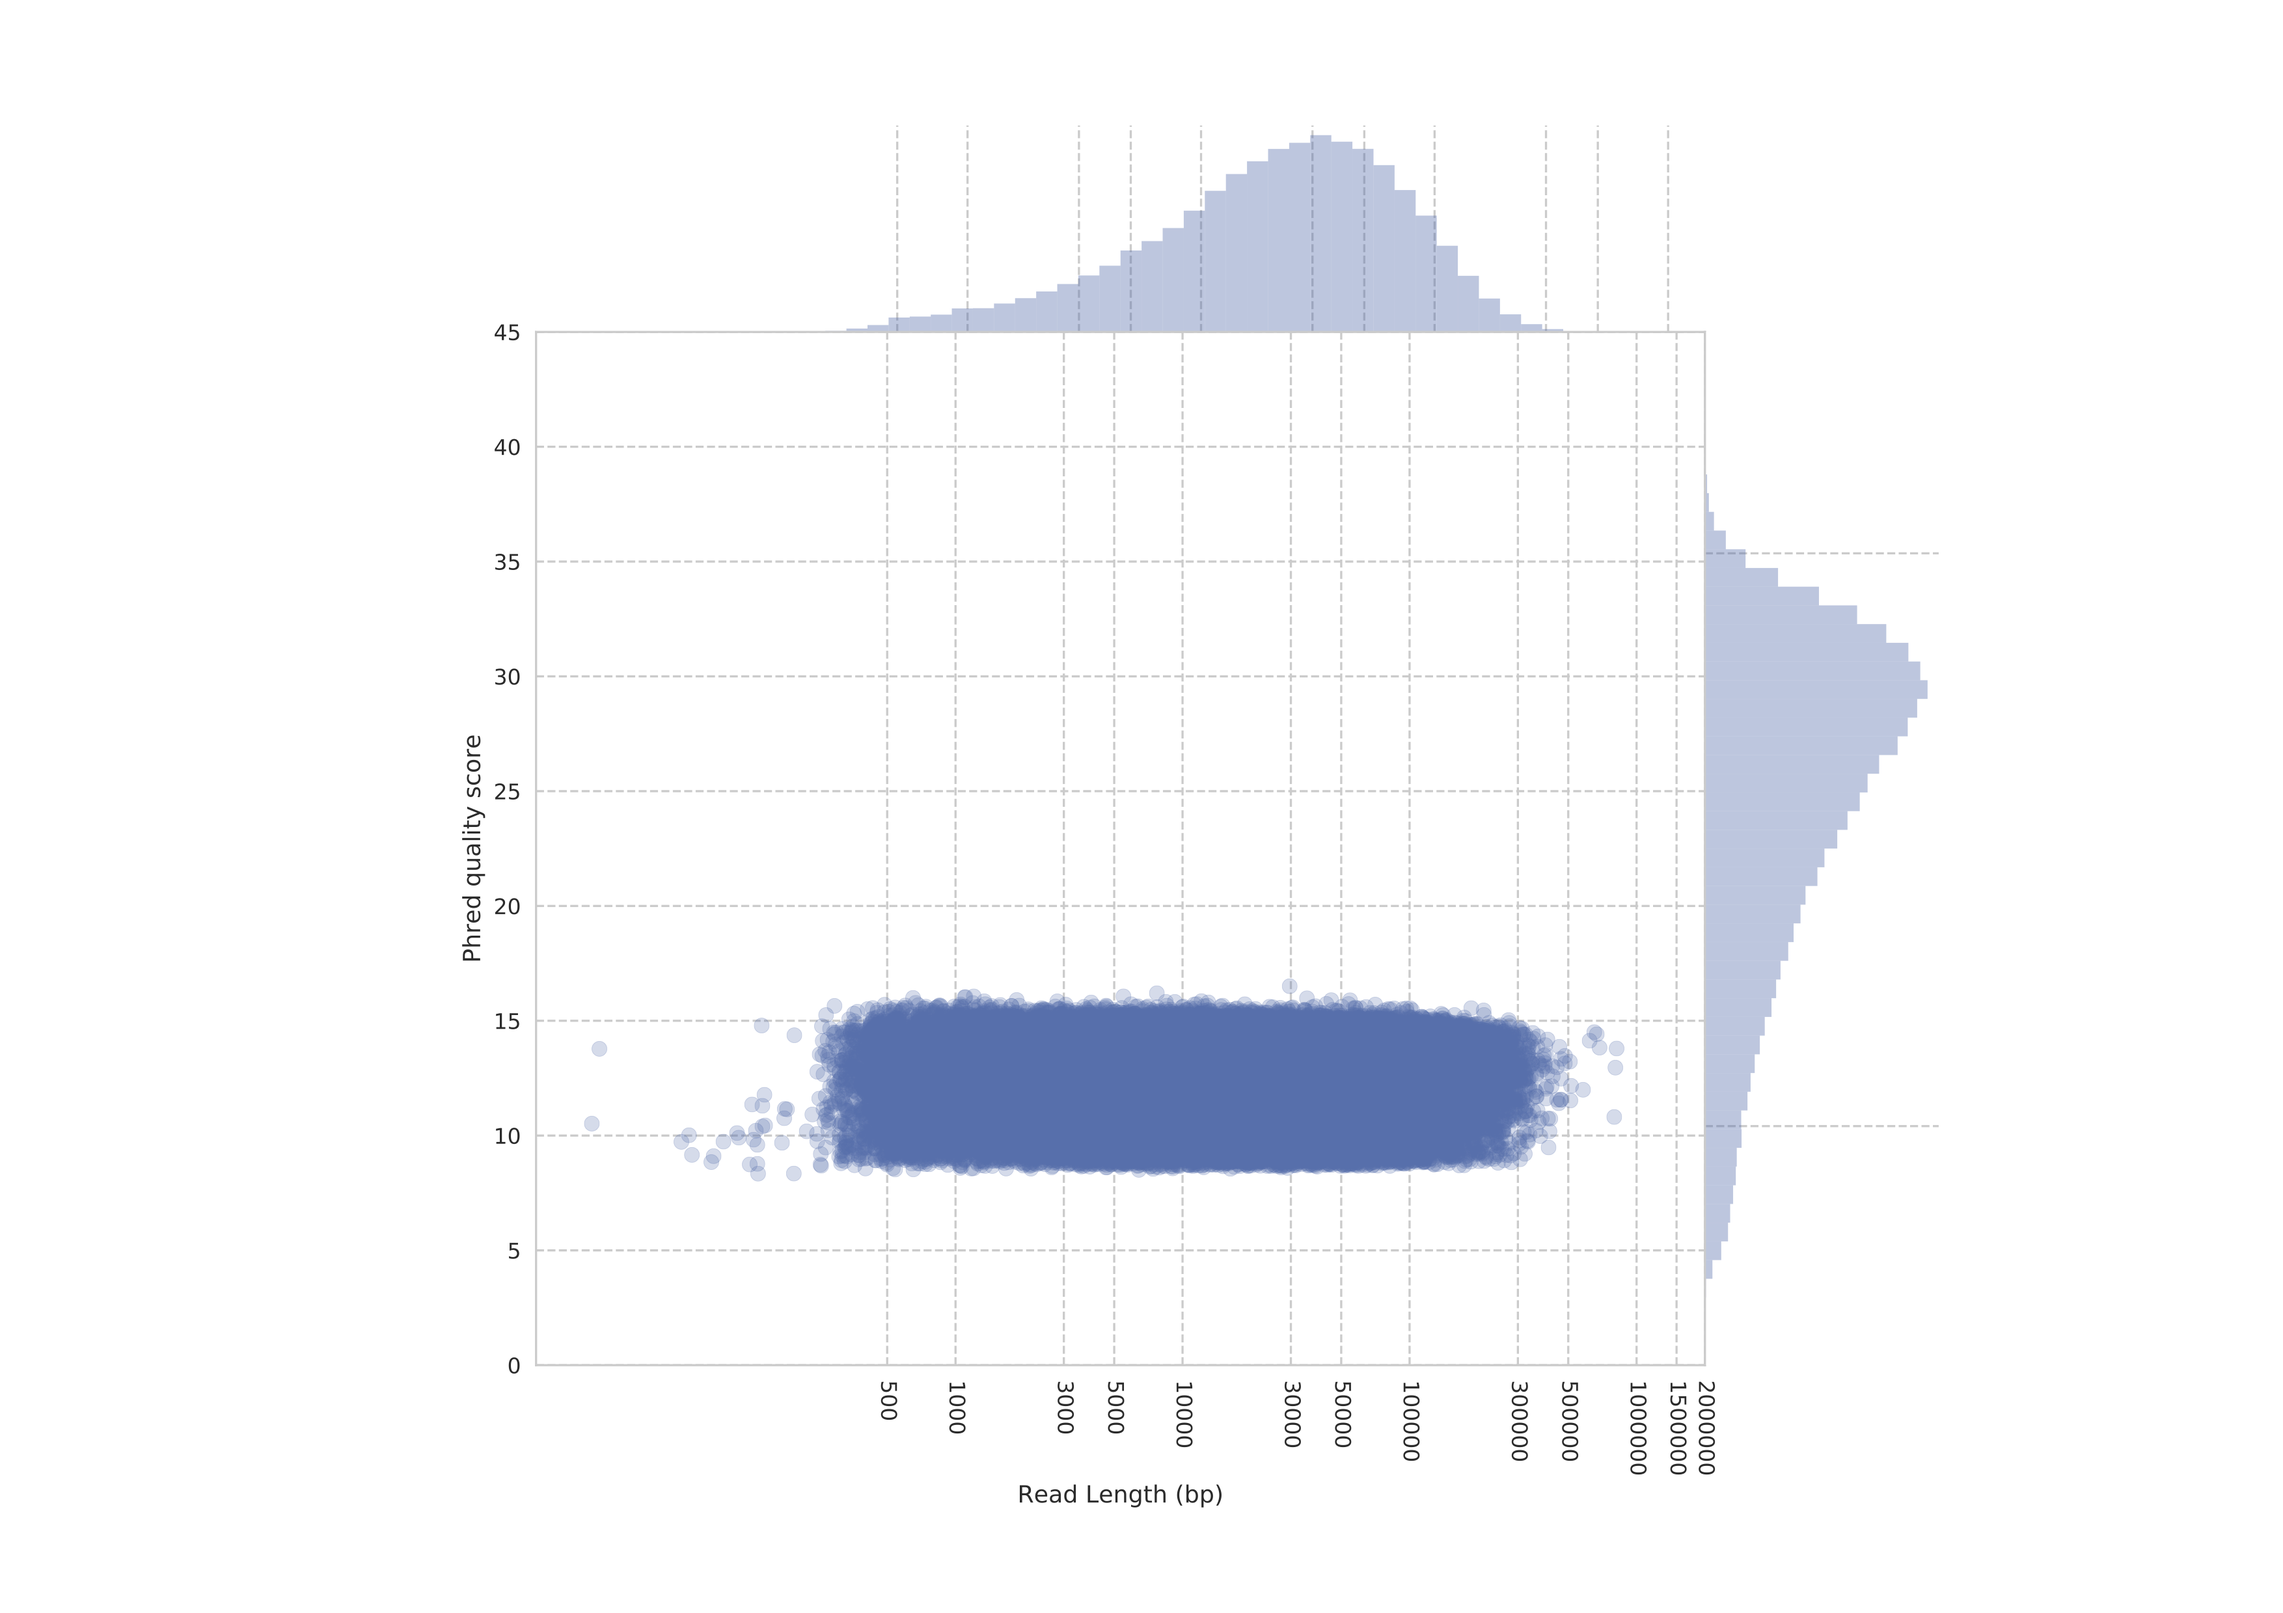
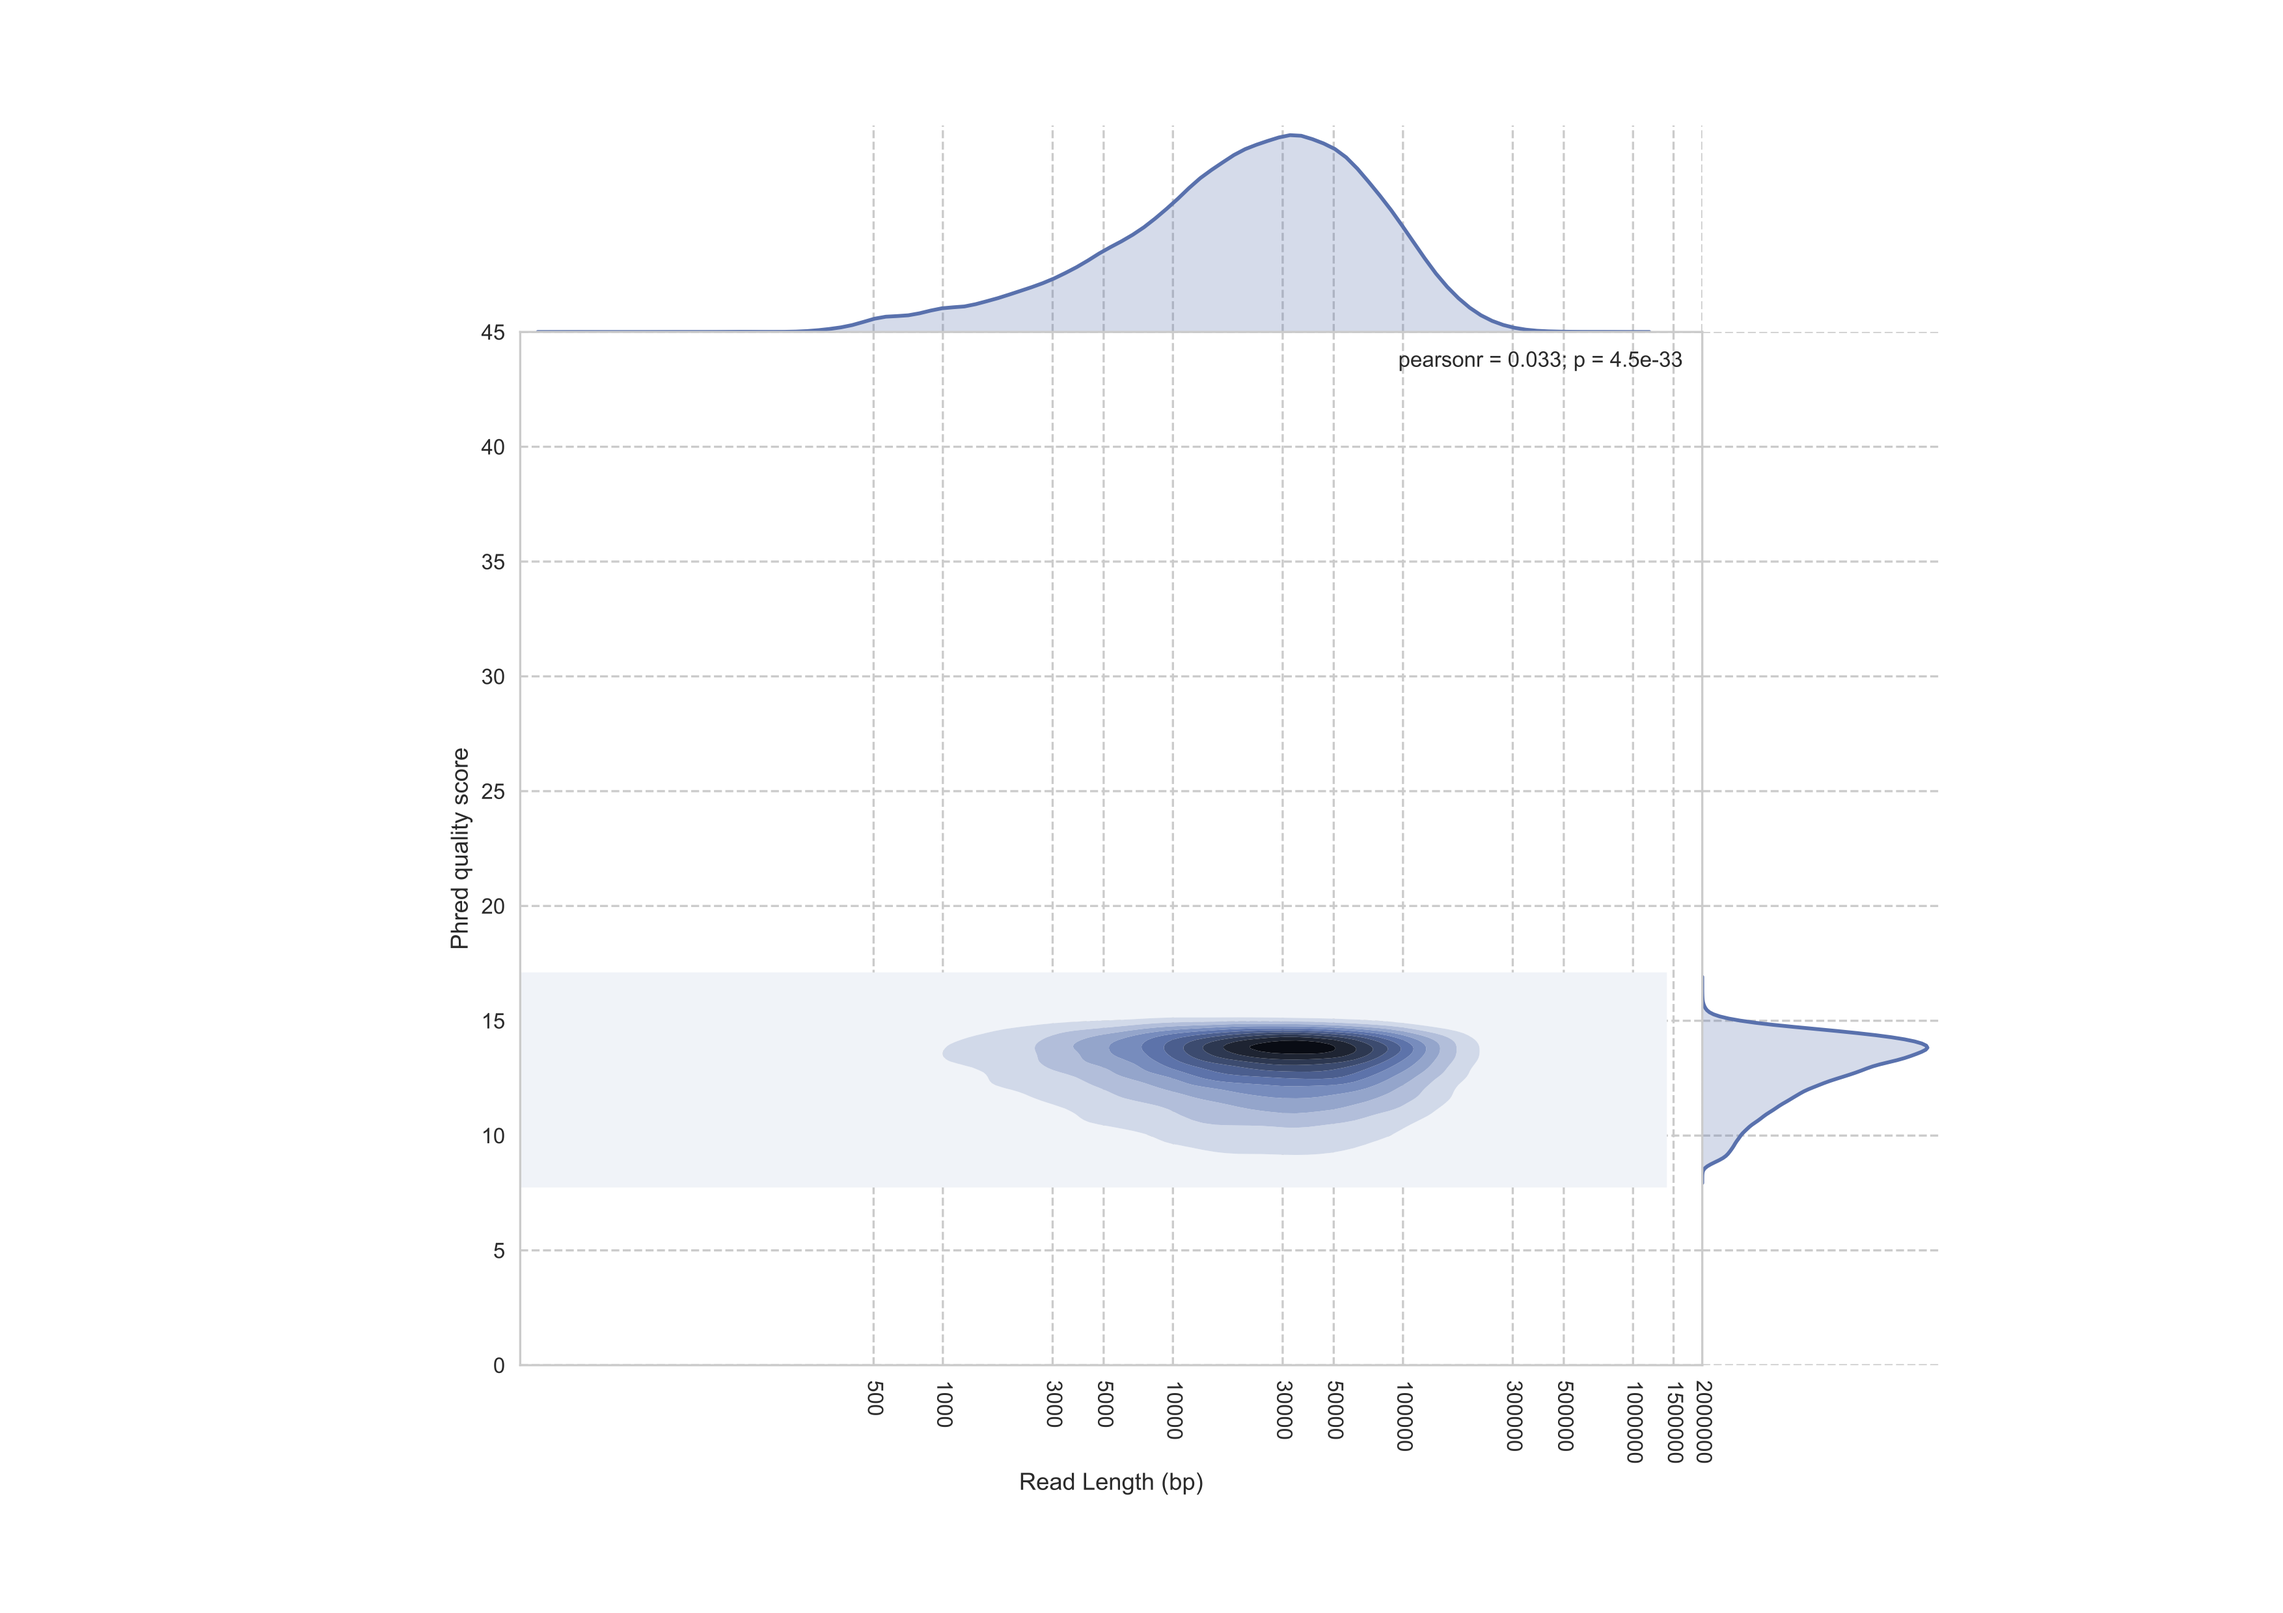
change default kind. update readme and cli. reduce dpi

diff --git a/pistis/pistis.py b/pistis/pistis.py
@@ -28,11 +28,11 @@ REQUIRED_EXT = '.pdf'
               help="Path to save the plot PDF as. If name is not specified,"
                    " will use the name of the fastq (or bam) file with .pdf "
                    "extension.")
-@click.option('--kind', '-k', default='scatter',
+@click.option('--kind', '-k', default='kde',
               type=click.Choice(['kde', 'scatter', 'hex']),
               help="The kind of representation to use for the jointplot of "
                    "quality score vs read length. Accepted kinds are 'scatter'"
-                   "(default), 'kde', or 'hex'. For examples refer to "
+                   ", 'kde' (default), or 'hex'. For examples refer to "
                    "https://seaborn.pydata.org/generated/seaborn.jointplot.html")
 @click.option('--log_length/--no_log_length', default=True,
               help="Plot the read length as a log10 transformation on the "
@@ -48,8 +48,8 @@ def main(fastq, output, kind, log_length, bam):
             2. Jointplot showing the read length vs. phred quality score for each
             read. The interior representation of this plot can be altered with the
             --kind option.\n
-            3. Violin plot of the phred quality score at positional bins across all reads. The reads are binned into read positions 1, 2, 3, 4, 5, 6, 7, 8, 9, 10, 11-20, 21-50, 51-100, 101-200, 201-300, 301-1000, 1001-10000, and >10000. Plots from the start to the end of reads.\n
-            4. Same as 3, but plots from the end of the read to the start.\n
+            3. Box plot of the phred quality score at positional bins across all reads. The reads are binned into read positions 1, 2, 3, 4, 5, 6, 7, 8, 9, 10, 11-20, 21-50, 51-100, 101-200, 201-300. Plots from the start of reads.\n
+            4. Same as 3, but plots from the end of the read.\n
     Additionally, if you provide a BAM/SAM file a histogram of the read percent
     identity will be added to the report.
     """

diff --git a/pistis/plots.py b/pistis/plots.py
@@ -13,7 +13,7 @@ from matplotlib.backends.backend_pdf import PdfPages
 from six.moves import map
 
 
-DPI = 300  # resolution for plots
+DPI = 150  # resolution for plots
 FIGURE_SIZE = (11.7, 10)
 
 
@@ -82,7 +82,7 @@ def length_vs_qual_plot(lengths, quality_scores, kind='scatter',
         # change the alpha of the scatter points
         if kind == 'scatter':
             plot.ax_joint.cla()
-            plot.ax_joint.scatter(x_data, y_data, alpha=0.25)
+            plot.ax_joint.scatter(x_data, y_data, alpha=0.15)
 
         plot.set_axis_labels(xlabel=xlabel, ylabel=ylabel)
 
@@ -202,7 +202,7 @@ def save_plots_to_pdf(plots, filename):
     pdf_doc = PdfPages(filename)
 
     for plot in plots:
-        pdf_doc.savefig(plot)
+        pdf_doc.savefig(plot, dpi=DPI)
 
     pdf_doc.close()
 

diff --git a/tests/test_plots.py b/tests/test_plots.py
@@ -67,7 +67,7 @@ def test_length_vs_qual_plot():
     # expected_fname = os.path.join(IMG_DIR, 'len_v_qual-expected.png')
 
     lengths, quality_scores = get_test_data()[1:3]
-    fig = plots.length_vs_qual_plot(lengths, quality_scores, kind='scatter')
+    fig = plots.length_vs_qual_plot(lengths, quality_scores, kind='kde')
     fig.savefig(fname, format='png')
     # todo: the below statement keeps breaking tests. The two files are VERY
     # subtley different if you make one on macosx and the other on linux. They

diff --git a/README.md b/README.md
@@ -110,12 +110,12 @@ pistis -f /path/to/my.fastq -o /save/as/report.pdf --no_log_length
 ```
 
 Additionally, you can change the way the data is represented in the bivariate plot.
-The default is a scatter plot (as in the below image), however you can
-choose to use a [hex bin or kernel density estimation version instead](https://seaborn.pydata.org/generated/seaborn.jointplot.html).
-In the running example, to use a hex bin you would run the following
+The default is a kernel density estimation plot (as in the below image), however you can
+choose to use a [hex bin or scatter plot version instead](https://seaborn.pydata.org/generated/seaborn.jointplot.html).
+In the running example, to use a scatter plot you would run the following
 
 ```sh
-pistis -f /path/to/my.fastq -o /save/as/report.pdf --kind hex
+pistis -f /path/to/my.fastq -o /save/as/report.pdf --kind scatter
 ```
 
 You can also provide a `gzip`ed fastq file without any extra steps
